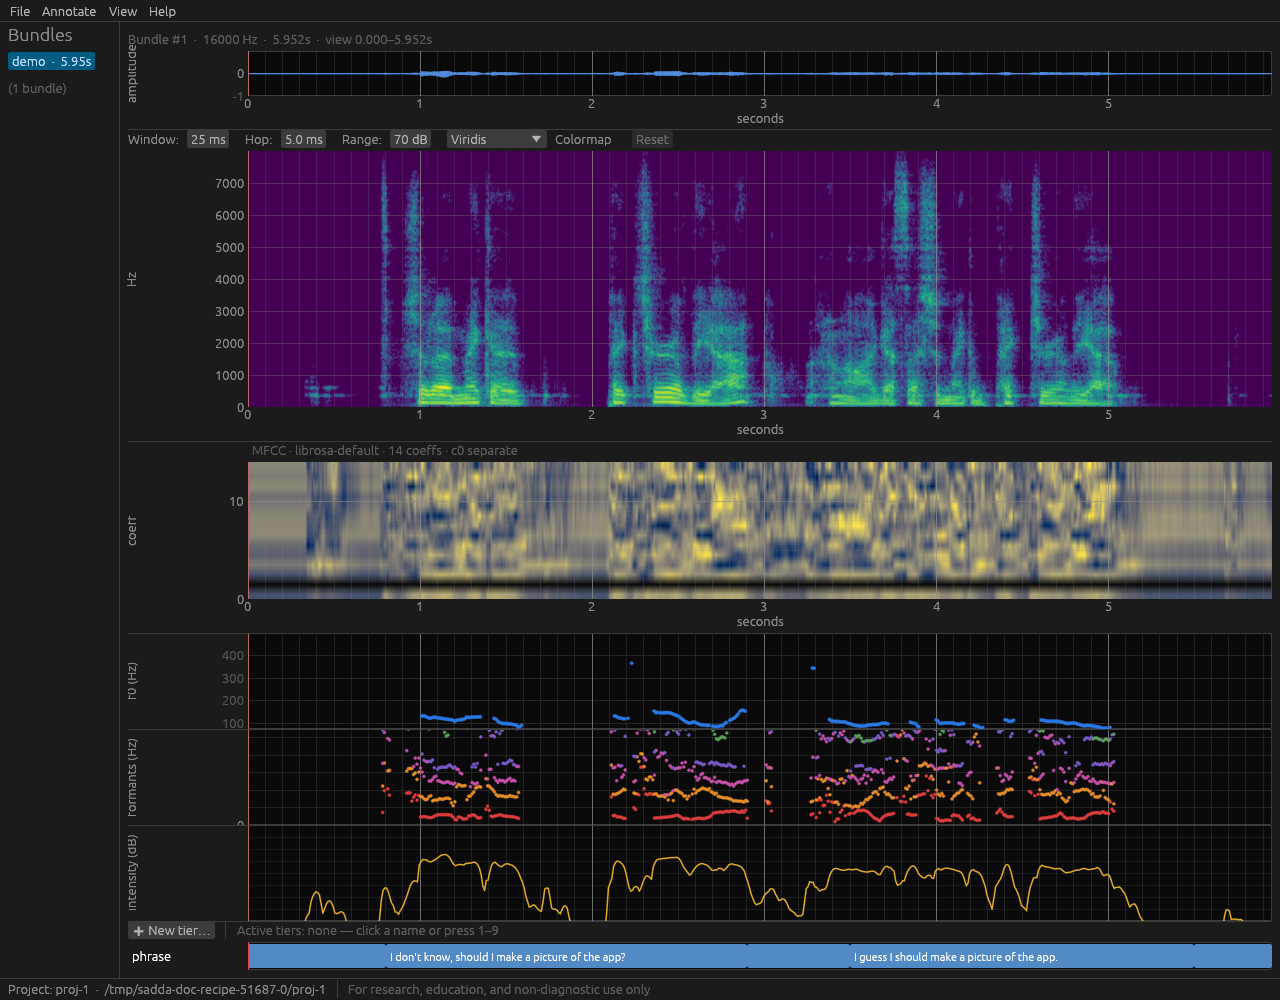
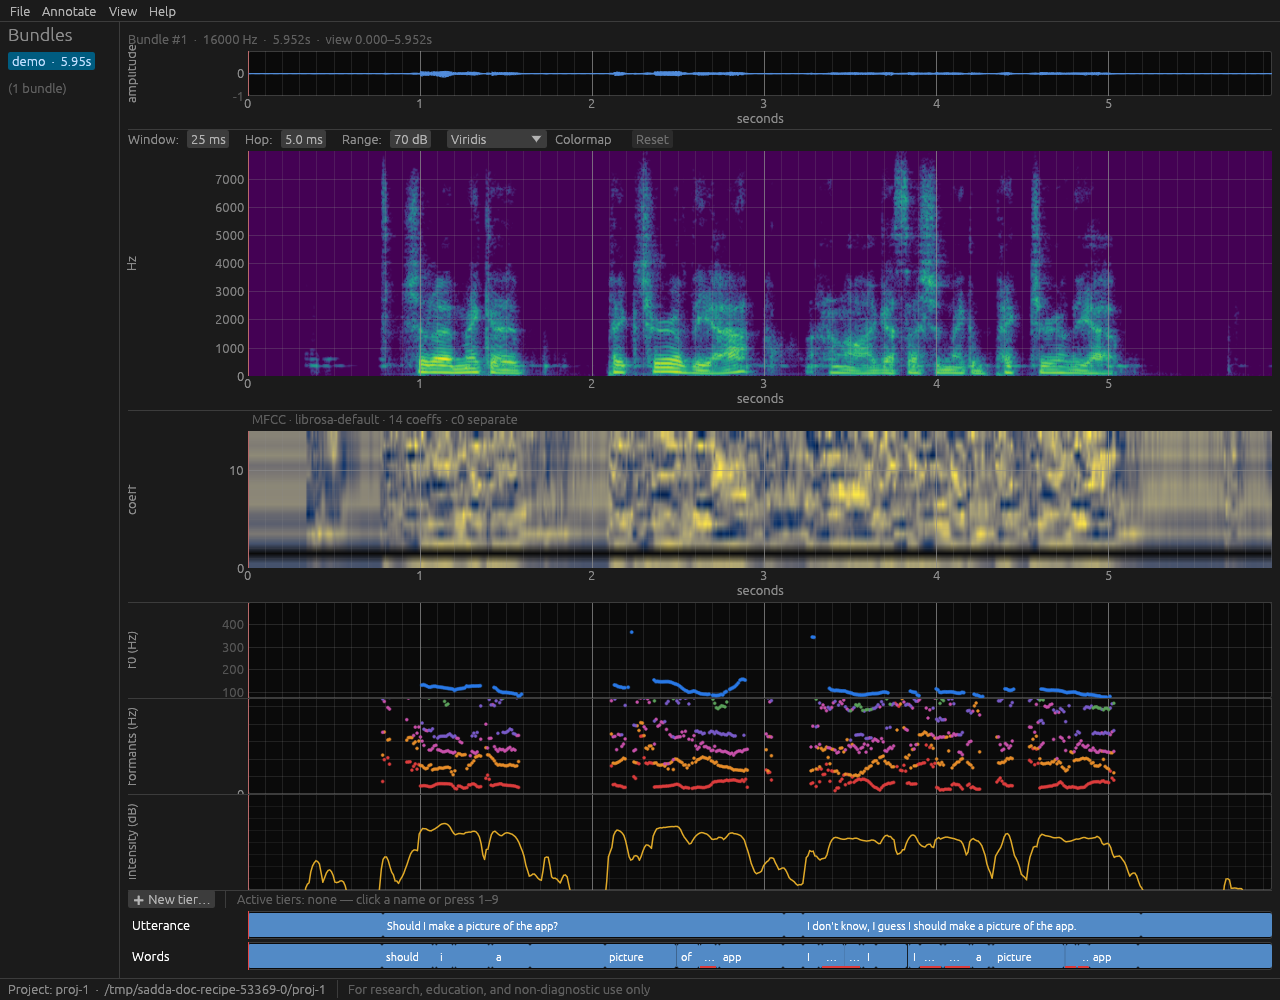
docs: real word/utterance annotation in the demo figures
Replaces the placeholder phrase tier with the actual annotation created in
sadda (Utterance + Words tiers, exported from the ~/Empty project DB with gaps
filled). The hero now shows hierarchical annotation aligned under the speech,
and the narrow word intervals exercise the label width-fit + red truncation
indicator.

Changed region(s): [[0.0938, 0.155, 1.0, 0.961], [0.1562, 0.155, 0.1875, 0.372]]

diff --git a/DEVLOG.md b/DEVLOG.md
@@ -37,11 +37,13 @@ now **maximal**: menu bar + sidebar + waveform + spectrogram + MFCC + f0 +
 formants + intensity + an annotation tier, showing sadda's *signal* and *corpus*
 sides in one figure. Guarded by `textgrid_import_adds_tiers`.
 
-**Placeholder annotation.** `docs/recipes/assets/demo.TextGrid` currently holds a
-2-interval **phrase** tier placed at the audible silence gaps (accurate enough to
-look right in the hero). The user will replace it with a proper word/phone
-annotation (done *in sadda* — dogfooding the annotation workflow); the hero
-regenerates from it. (A real forced-aligner is the backlogged ASR item.)
+**Annotation.** `docs/recipes/assets/demo.TextGrid` now holds the **real**
+annotation — an **Utterance** tier (2 phrases) + a **Words** tier (21 words),
+created *in sadda* (dogfooding the annotation workflow) and exported from the
+project DB (gaps filled as empty intervals for valid Praat tiers). The hero shows
+both, aligned under the speech; the narrow word intervals also exercise the new
+label width-fit + red truncation indicator. (An earlier placeholder phrase tier
+was superseded.)
 
 **Notable:** lane-focused shots need the *focal* lane sized explicitly, because
 the spectrogram is the flex/remainder pane and otherwise eats the height — e.g.